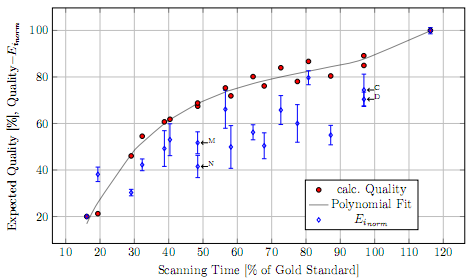
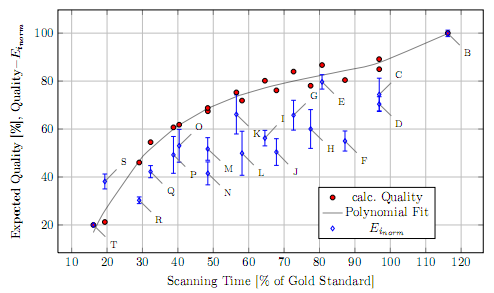
- Changed NormalizedErrorPlot, added linear interpolations, which makes it more explainable.   - added QualityPlot.txt and QualityPlot.xls, which are the base for this updated Plot.   - commiting now, because I'm starting to do the last revisions from Marco, preparing for submission.
git-svn-id: http://code.ana.unibe.ch/svn/WideFieldScanPaper@220 1e09dd5d-36e2-4d60-b258-626281e6a704

Changed region(s): [[0.0, 0.0, 1.0, 1.0]]

diff --git a/tikz-images/plots/2008c-MeanNormalizedErrorPlot.tex b/tikz-images/plots/2008c-MeanNormalizedErrorPlot.tex
@@ -6,16 +6,17 @@
 %%%%%%%%%%%%%%%%%%%%%%%%%%%%%%
 \begin{tikzpicture}
 
+\pgfplotsset{every axis legend/.append style={at={(0.8,0.08)},anchor=base}}
+
 \begin{axis}[%
-    xmajorgrids,
-    ymajorgrids,
+	xmajorgrids,
+  ymajorgrids,
 	width=\linewidth,
 	height=0.618\linewidth,
-    %scale only axis,
-    %xmin=0,xmax=110,
-    %ymin=0,ymax=110,
-    %axis y line = left,
-	xlabel={Scanning Time [\%\ of Gold Standard]},%
+	%scale only axis,
+	xmin=0,%xmax=129,
+	ymin=0,%ymax=125,
+  xlabel={Scanning Time [\%\ of Gold Standard]},%
 	ylabel={Expected Quality [\%], Quality$-E_{i_{norm}}$}%
 	]
 
@@ -43,29 +44,32 @@
 		(116.24,100)
 };
 
-% Line plot
-\addplot [smooth, solid, semitransparent]
-	coordinates{
-		(16.14,16.8548)
-		(19.37,25.9575)
-		(29.08,46.6567)
-		(32.29,51.7347)
-		(38.75,59.9714)
-		(40.37,61.6854) 
-		(48.46,68.6146)
-		(48.43,68.6305) 
-		(56.52,73.5452)
-		(58.12,74.3455)
-		(64.58,77.1605)
-		(67.83,78.3754)
-		(72.67,80.0091)
-		(77.49,81.5005)
-		(80.72,82.4599)
-		(87.20,84.3973)
-		(96.87,87.719)
-%		(96.87,87.719)
-		(116.24,99.8565)
-};
+\addplot [domain=16.14:116.24,color=red, semitransparent,ultra thick]
+	{0.6936*x+26.891}; 
+
+%% Line plot
+%\addplot [smooth, solid, semitransparent]
+	%coordinates{
+		%(16.14,16.8548)
+		%(19.37,25.9575)
+		%(29.08,46.6567)
+		%(32.29,51.7347)
+		%(38.75,59.9714)
+		%(40.37,61.6854) 
+		%(48.46,68.6146)
+		%(48.43,68.6305) 
+		%(56.52,73.5452)
+		%(58.12,74.3455)
+		%(64.58,77.1605)
+		%(67.83,78.3754)
+		%(72.67,80.0091)
+		%(77.49,81.5005)
+		%(80.72,82.4599)
+		%(87.20,84.3973)
+		%(96.87,87.719)
+%%		(96.87,87.719)
+		%(116.24,99.8565)
+%};
 
 \addplot [ color=blue, only marks, mark=diamond ]
 plot [ error bars/.cd, y dir=both, y explicit ]
@@ -90,10 +94,15 @@ plot [ error bars/.cd, y dir=both, y explicit ]
 	( 96.87,74.3991) +- (0,6.8125) % C
 	(116.24,99.8987) +- (0,1.3487) % B
 };
-	
-\pgfplotsset{every axis legend/.append style={at={(0.75,0.1)},anchor=base}}
 
-\legend{calc.\ Quality, Polynomial Fit, $E_{i_{norm}}$}
+\addplot [domain=16.14:116.24,color=blue, semitransparent,ultra thick]
+	{0.5833*x+20.226}; 
+
+\legend{%
+	Simulation,%
+	linear Interpolation,%
+	$E_{i_{norm}}$,%
+	linear Interpolation}
 
 % \draw [<-] (axis cs:97.87,74.3991) -- (axis cs:99.87,74.3991) node [anchor=text] {\tiny C}; 
 % \draw [<-] (axis cs:97.87,70.4018) -- (axis cs:99.87,70.4018) node [anchor=text] {\tiny D};
@@ -103,27 +112,30 @@ plot [ error bars/.cd, y dir=both, y explicit ]
 % \draw [<-] (axis cs:49.43,51.6990) -- (axis cs:51.43,51.6990) node [anchor=text] {\tiny M};
 % \draw [<-] (axis cs:49.46,41.5079) -- (axis cs:51.46,41.5079) node [anchor=text] {\tiny N};
 
-%\tikzstyle{every pin}=[fill=white,draw=black,font=\tiny]
-\tikzstyle{every pin}=[font=\scriptsize]
+\tikzstyle{every pin}=[pin distance=2ex,font=\scriptsize]
 \node[coordinate, pin=below right:{B}] at (axis cs:116.24,99.8987) {}; % B
-\node[coordinate, pin=above right:{C}] at (axis cs:96.87,74.3991) {}; % C
+\node[coordinate, pin=-22.5:{C}] at (axis cs:96.87,74.3991) {}; % C
 \node[coordinate, pin=below right:{D}] at (axis cs:96.87,70.4018) {}; % D
-\node[coordinate, pin=below right:{E}] at (axis cs:80.72,79.6708) {}; % E
+\node[coordinate, pin=-5:{E}] at (axis cs:80.72,79.6708) {}; % E
 \node[coordinate, pin=below right:{F}] at (axis cs:87.20,55.0069) {}; % F
 \node[coordinate, pin=above right:{G}] at (axis cs:72.67,65.7727) {}; % G
 \node[coordinate, pin=below right:{H}] at (axis cs:77.49,60.0243) {}; % H
 \node[coordinate, pin=above right:{I}] at (axis cs:64.58,56.2138) {}; % I
 \node[coordinate, pin=below right:{J}] at (axis cs:67.83,50.4137) {}; % J
-\node[coordinate, pin=below right:{K}] at (axis cs:56.52,66.1100) {}; % K
+\node[coordinate, pin=right:{K}] at (axis cs:56.52,66.1100) {}; % K
 \node[coordinate, pin=below right:{L}] at (axis cs:58.12,49.9058) {}; % L
-\node[coordinate, pin=below right:{M}] at (axis cs:48.43,51.6990) {}; % M
+\node[coordinate, pin=above right:{M}] at (axis cs:48.43,51.6990) {}; % M
 \node[coordinate, pin=below right:{N}] at (axis cs:48.46,41.5079) {}; % N  
 \node[coordinate, pin=above right:{O}] at (axis cs:40.37,53.0181) {}; % O
 \node[coordinate, pin=below right:{P}] at (axis cs:38.75,49.2247) {}; % P
 \node[coordinate, pin=below right:{Q}] at (axis cs:32.29,42.2255) {}; % Q
 \node[coordinate, pin=below right:{R}] at (axis cs:29.08,30.2919) {}; % R
-\node[coordinate, pin=above right:{S}] at (axis cs:19.37,38.1358) {}; % S
+\node[coordinate, pin=right:{S}] at (axis cs:19.37,38.1358) {}; % S
 \node[coordinate, pin=below right:{T}] at (axis cs:16.14,20.0000) {}; % T
+
+\node[coordinate, pin=above left:{$R^2=0.8287$}] at (axis cs:106.24,100.5791) {};
+\node[coordinate, pin=below right:{$R^2=0.7868$}] at (axis cs:106.24, 82.1958) {};
+
 
 \end{axis}
 

diff --git a/widefieldscan.tex b/widefieldscan.tex
@@ -122,7 +122,7 @@
 	\begin{synopsis}
 \fi
 ``One or two sentences of the main findings of the paper for inclusion in the Table of Contents.''
-Increasing the lateral field of view of microscopy based imaging methods greatly increases the acquisition time. This article presents scanning protocols to obtain high-resolution tomographic scans with large lateral field of view at greatly decrease acquisition time and thus reduced radiation dose while resulting in high quality three-dimensional datasets viable for threshold interval based segmentation of the terminal airways in the mammalian lung.
+Increasing the lateral field of view of tomography based imaging methods greatly increases the acquisition time. This article presents scanning protocols to obtain high-resolution tomographic scans with large lateral field of view at greatly decrease acquisition time and thus reduced radiation dose while resulting in high quality three-dimensional datasets viable for threshold interval based segmentation of the terminal airways in the mammalian lung.
 \ifhtml
 	\section{Abstract}
 \else
@@ -149,6 +149,7 @@ This work has been funded by the grants 3100A0-109874 and 310030-125397 of the S
 	\bibliography{../references}%
 \else%
 	}% close \ack{ from iucr.bst
+
 	\let\oldharvardurl=\harvardurl%
 	\renewcommand{\harvardurl}[1]{\relax}%
 	\referencelist[../references]%
